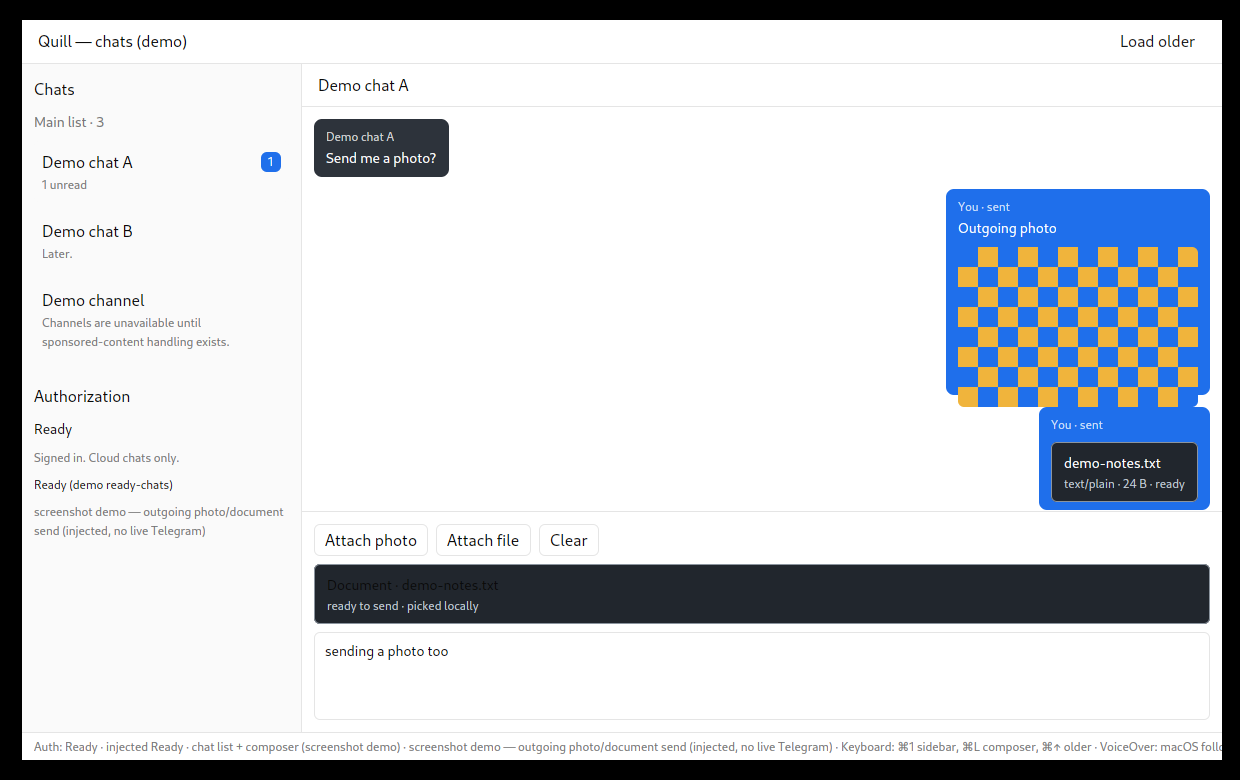
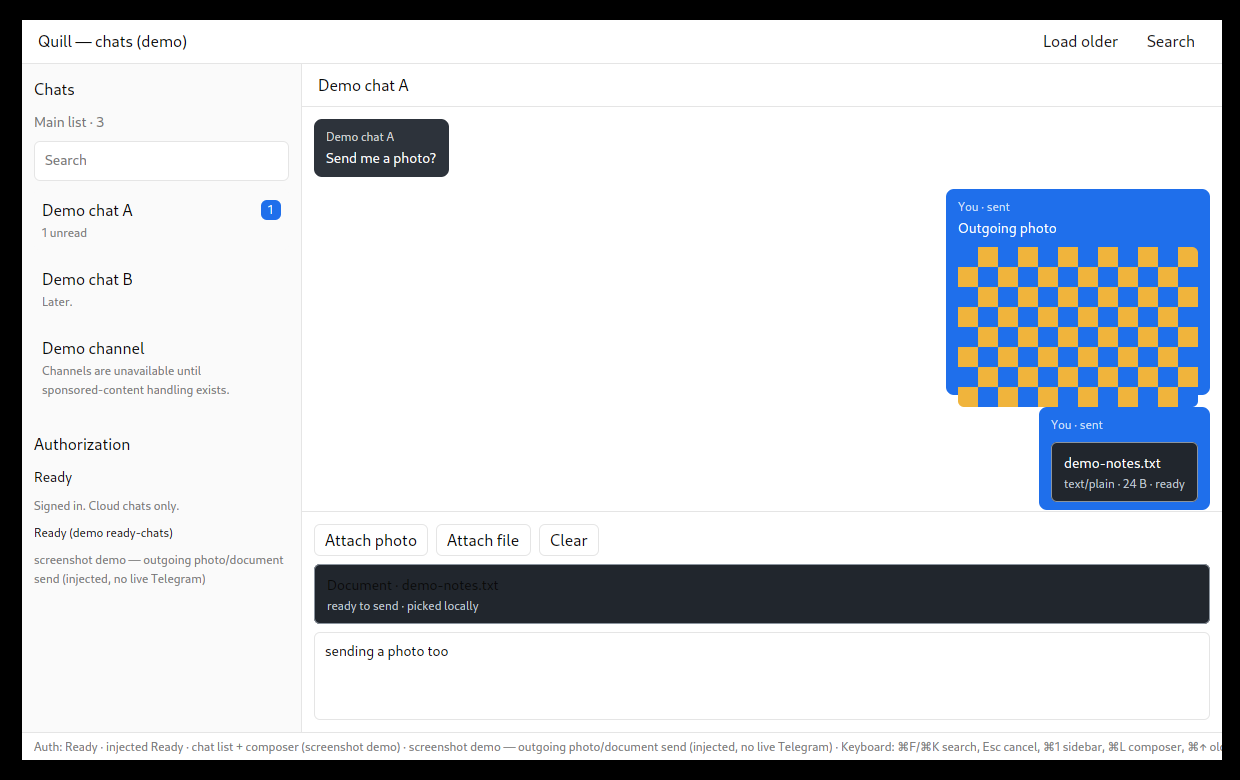
Recapture Ready screenshots for sidebar search
Always-visible Search field (tdesktop) plus injected Chats/Messages
results. Status bar lists official ⌘F along with ⌘K.

diff --git a/src/ui/mod.rs b/src/ui/mod.rs
@@ -946,6 +946,7 @@ impl QuillApp {
             .gap_2()
             .child(
                 div()
+                    .id("sidebar-search-field")
                     .flex_1()
                     .on_click(cx.listener(|this, _, window, cx| {
                         if !this.search_is_open() {
@@ -2297,7 +2298,7 @@ fn status_bar(
         .text_xs()
         .text_color(cx.theme().muted_foreground)
         .child(format!(
-            "Auth: {} · {} · {} · Keyboard: ⌘K search, Esc cancel, ⌘1 sidebar, ⌘L composer, ⌘↑ older · VoiceOver: macOS follow-up",
+            "Auth: {} · {} · {} · Keyboard: ⌘F/⌘K search, Esc cancel, ⌘1 sidebar, ⌘L composer, ⌘↑ older · VoiceOver: macOS follow-up",
             auth.title,
             connect_status_label(connect_status),
             status_note
